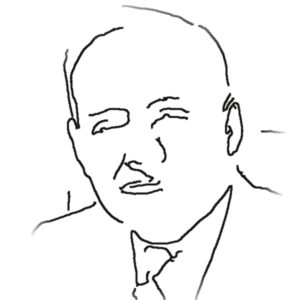
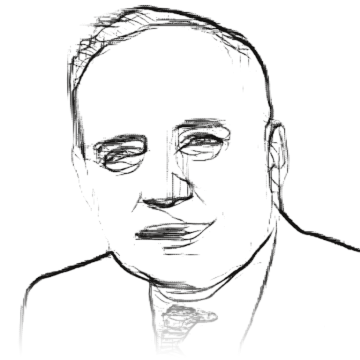
Redraw the investor sketches and merge the quotes with the reading section
The portraits are now drawn by a line-art model (informative drawings,
open-sketch style) from matted photos, instead of traced edges. The quote
wall, videos, books and podcast are one section. The Ben Felix channel
links from his video instead of repeating it as its own card.

Claude-Session: https://claude.ai/code/session_01HLwVeDYz1TyXAk1VNp3cfb

Changed region(s): [[0.03, 0.0, 1.0, 1.0], [0.63, 0.9, 0.69, 1.0], [0.87, 0.42, 0.96, 0.45]]

diff --git a/public/investing/index.html b/public/investing/index.html
@@ -253,6 +253,12 @@ table.data :is(th,td):first-child{text-align:left}
 .pre{opacity:0;transform:translateY(14px)}
 .reveal{transition:opacity .7s var(--ease),transform .7s var(--ease)}
 .vids{display:grid;grid-template-columns:repeat(2,minmax(0,1fr));gap:48px 32px;margin-top:72px}
+.vids.tight{margin-top:28px}
+.vid figcaption a{color:inherit;text-decoration-color:var(--rule);text-underline-offset:3px}
+.vid figcaption a:hover{text-decoration-color:var(--ink)}
+.reading .cd-card{grid-column:1/-1;display:grid;grid-template-columns:240px minmax(0,1fr);gap:0 40px;align-items:center}
+.cd-card .cd3d{margin-bottom:0}
+#voices>.note{margin-top:56px}
 .vid{margin:0;min-width:0}
 .vid-frame{position:relative;aspect-ratio:16/9;overflow:hidden;border:2px solid var(--ink);box-shadow:var(--shadow);background:var(--ink);transition:transform 120ms var(--ease),box-shadow 120ms var(--ease)}
 .vid-frame:has(.vid-play:active){transform:translate(3px,3px);box-shadow:none;transition-duration:40ms}
@@ -275,7 +281,7 @@ table.data :is(th,td):first-child{text-align:left}
 .mix .slider-val .mix-rest{margin-left:10px;color:var(--muted)}
 .mix-chart{margin-top:48px}
 /* quote wall: a sketch, the words, the name */
-.wall{display:grid;grid-template-columns:repeat(2,minmax(0,1fr));gap:72px 56px;margin-top:72px}
+.wall{display:grid;grid-template-columns:repeat(2,minmax(0,1fr));gap:72px 56px;margin-top:96px}
 .sage{margin:0;display:grid;grid-template-columns:120px minmax(0,1fr);grid-template-rows:auto 1fr;gap:0 22px;align-items:start}
 .face{grid-row:span 2;width:120px;height:120px;margin-top:-10px}
 .face img{display:block;width:100%;height:100%;object-fit:contain}
@@ -328,7 +334,7 @@ table.data :is(th,td):first-child{text-align:left}
 .book-card:hover .book{transition-duration:.45s}
 .book.open{transform:rotateY(4deg)}
 @media (hover:none){.book-card{cursor:pointer}}
-.cd3d,.tv3d{position:relative;height:236px;margin-bottom:28px}
+.cd3d{position:relative;height:236px;margin-bottom:28px}
 .sleeve{position:absolute;z-index:1;left:0;bottom:8px;width:176px;height:176px;padding:14px;display:flex;flex-direction:column;justify-content:space-between;background:var(--ink);color:var(--paper);box-shadow:var(--shadow)}
 .sleeve .mono{color:var(--paper);opacity:.65}
 .sleeve b{font-family:var(--f-display);font-weight:400;font-size:27px;line-height:1}
@@ -341,12 +347,7 @@ table.data :is(th,td):first-child{text-align:left}
 @keyframes spin{to{transform:rotate(360deg)}}
 .cd-card:hover .disc{transform:translateX(96px)}
 .cd-card:hover .disc .spin{animation-play-state:running}
-.tv3d{display:flex;align-items:flex-end;perspective:1000px;padding-bottom:20px}
-.tv{position:relative;width:232px;aspect-ratio:16/9;border:2px solid var(--ink);background:var(--card) var(--img) center/cover no-repeat;filter:grayscale(1) contrast(1.05);box-shadow:var(--shadow);
   transform:rotateY(22deg) rotateX(3deg);transition:transform .7s var(--ease-drawer),filter .3s var(--ease)}
-.tv .vid-badge{width:44px;height:44px;margin:-22px 0 0 -22px}
-.tv .vid-badge::after{left:18px;top:13px;border-width:9px 0 9px 14px}
-.tv-card:hover .tv{transform:none;filter:none}
 @media (prefers-reduced-motion:reduce){.disc .spin{animation:none}}
 .end{padding-block:160px 120px}
 .end .big{font-family:var(--f-display);font-size:clamp(44px,9vw,84px);line-height:1}
@@ -368,6 +369,8 @@ table.data :is(th,td):first-child{text-align:left}
   .stats>div:nth-child(3),.outcomes>div:nth-child(3){padding-left:0;border-left:0}
   .stats>div:nth-child(n+3),.outcomes>div:nth-child(n+3){border-top:1px solid var(--rule)}
   .then,.reading,.vids,.wall{grid-template-columns:1fr}
+  .reading .cd-card{grid-template-columns:1fr}
+  .cd-card .cd3d{margin-bottom:28px}
   .wall{gap:56px}
   .sage{grid-template-columns:88px minmax(0,1fr);gap:0 16px}
   .face{width:88px;height:88px}
@@ -592,39 +595,34 @@ table.data :is(th,td):first-child{text-align:left}
   </section>
 
   <section id="voices" aria-labelledby="h-voices">
-    <span class="mono" data-t="wallEye">Ask the people who know</span>
-    <h2 id="h-voices" data-t="wallH">The famous names agree</h2>
-    <p class="lede" data-t="wallLede">Some of the best-known investors and economists, on what most people should do with their money.</p>
+    <span class="mono" data-t="wallEye">In their own words</span>
+    <h2 id="h-voices" data-t="readH">From the people who said it first</h2>
+    <p class="lede" data-t="readLede">This page borrows almost all of its ideas. These are the people behind them, and some of the best-known investors who agree.</p>
+    <figure class="pull"><blockquote data-t="qStatue">“If a statue is ever erected to honor the person who has done the most for American investors, the hands-down choice should be Jack Bogle.”</blockquote><figcaption class="mono" data-t="qStatueBy">Warren Buffett, letter to shareholders, 2016</figcaption></figure>
     <div class="wall">
-      <figure class="sage"><div class="face" aria-hidden="true"><img src="/investing/people/buffett.png" alt="" width="300" height="300" loading="lazy" decoding="async"></div><blockquote data-t="w_buffett">“By periodically investing in an index fund, the know-nothing investor can actually out-perform most investment professionals.”</blockquote><figcaption><b>Warren Buffett</b><span class="mono" data-t="w_buffettBy">Letter to shareholders, 1993</span></figcaption></figure>
+      <figure class="sage"><div class="face" aria-hidden="true"><img src="/investing/people/buffett.png?v=3" alt="" width="360" height="360" loading="lazy" decoding="async"></div><blockquote data-t="w_buffett">“By periodically investing in an index fund, the know-nothing investor can actually out-perform most investment professionals.”</blockquote><figcaption><b>Warren Buffett</b><span class="mono" data-t="w_buffettBy">Letter to shareholders, 1993</span></figcaption></figure>
       <figure class="sage bare"><blockquote data-t="w_lynch">“Far more money has been lost by investors preparing for corrections, or trying to anticipate corrections, than has been lost in corrections themselves.”</blockquote><figcaption><b>Peter Lynch</b><span class="mono" data-t="w_lynchBy">Ran Fidelity’s Magellan fund, 1977–1990</span></figcaption></figure>
       <figure class="sage bare"><blockquote data-t="w_samuelson">“Investing should be more like watching paint dry or watching grass grow. If you want excitement, take $800 and go to Las Vegas.”</blockquote><figcaption><b>Paul Samuelson</b><span class="mono" data-t="w_samuelsonBy">Nobel Prize–winning economist</span></figcaption></figure>
-      <figure class="sage"><div class="face" aria-hidden="true"><img src="/investing/people/graham.png" alt="" width="300" height="300" loading="lazy" decoding="async"></div><blockquote data-t="w_graham">“In the short run, the market is a voting machine but in the long run, it is a weighing machine.”</blockquote><figcaption><b>Benjamin Graham</b><span class="mono" data-t="w_grahamBy">Buffett’s teacher, as Buffett quotes him</span></figcaption></figure>
-      <figure class="sage"><div class="face" aria-hidden="true"><img src="/investing/people/sharpe.png" alt="" width="300" height="300" loading="lazy" decoding="async"></div><blockquote data-t="w_sharpe">“Properly measured, the average actively managed dollar must underperform the average passively managed dollar, net of costs.”</blockquote><figcaption><b>William F. Sharpe</b><span class="mono" data-t="w_sharpeBy">The Arithmetic of Active Management, 1991</span></figcaption></figure>
-      <figure class="sage"><div class="face" aria-hidden="true"><img src="/investing/people/munger.png" alt="" width="300" height="300" loading="lazy" decoding="async"></div><blockquote data-t="w_munger">“The big money is not in the buying and the selling, but in the waiting.”</blockquote><figcaption><b>Charlie Munger</b><span class="mono" data-t="w_mungerBy">Buffett’s partner at Berkshire Hathaway</span></figcaption></figure>
+      <figure class="sage"><div class="face" aria-hidden="true"><img src="/investing/people/graham.png?v=3" alt="" width="360" height="360" loading="lazy" decoding="async"></div><blockquote data-t="w_graham">“In the short run, the market is a voting machine but in the long run, it is a weighing machine.”</blockquote><figcaption><b>Benjamin Graham</b><span class="mono" data-t="w_grahamBy">Buffett’s teacher, as Buffett quotes him</span></figcaption></figure>
+      <figure class="sage"><div class="face" aria-hidden="true"><img src="/investing/people/sharpe.png?v=3" alt="" width="360" height="360" loading="lazy" decoding="async"></div><blockquote data-t="w_sharpe">“Properly measured, the average actively managed dollar must underperform the average passively managed dollar, net of costs.”</blockquote><figcaption><b>William F. Sharpe</b><span class="mono" data-t="w_sharpeBy">The Arithmetic of Active Management, 1991</span></figcaption></figure>
+      <figure class="sage"><div class="face" aria-hidden="true"><img src="/investing/people/munger.png?v=3" alt="" width="360" height="360" loading="lazy" decoding="async"></div><blockquote data-t="w_munger">“The big money is not in the buying and the selling, but in the waiting.”</blockquote><figcaption><b>Charlie Munger</b><span class="mono" data-t="w_mungerBy">Buffett’s partner at Berkshire Hathaway</span></figcaption></figure>
       <figure class="sage bare"><blockquote data-t="w_fama">“Your money is like soap. The more you handle it, the less you’ll have.”</blockquote><figcaption><b>Eugene Fama</b><span class="mono" data-t="w_famaBy">Nobel Prize–winning economist</span></figcaption></figure>
       <figure class="sage bare"><blockquote data-t="w_housel">“Doing well with money has a little to do with how smart you are and a lot to do with how you behave.”</blockquote><figcaption><b>Morgan Housel</b><span class="mono" data-t="w_houselBy">The Psychology of Money, 2020</span></figcaption></figure>
     </div>
-    <p class="note" data-t="wallCredit">Line drawings traced from photos on Wikimedia Commons. Warren Buffett: <a href="https://commons.wikimedia.org/wiki/File:Warren_Buffett_KU_Visit.jpg">Mark Hirschey</a>, CC BY-SA 2.0; Benjamin Graham: <a href="https://commons.wikimedia.org/wiki/File:Benjamin_Graham_(1894-1976)_portrait_on_23_March_1950.jpg">unknown photographer, 1950</a>, public domain; William F. Sharpe: <a href="https://commons.wikimedia.org/wiki/File:William_sharpe_2007.jpg">Larry D. Moore</a>, CC BY 4.0; Charlie Munger: <a href="https://commons.wikimedia.org/wiki/File:Charlie_Munger.jpg">Nick J Webb</a>, CC BY 2.0.</p>
-  </section>
 
-  <section id="reading" aria-labelledby="h-reading">
-    <span class="mono" data-t="readEye">Watch, read, listen</span>
-    <h2 id="h-reading" data-t="readH">From the people who said it first</h2>
-    <p class="lede" data-t="readLede">This page borrows almost all of its ideas. These are the people behind them, in their own words.</p>
-    <figure class="pull"><blockquote data-t="qStatue">“If a statue is ever erected to honor the person who has done the most for American investors, the hands-down choice should be Jack Bogle.”</blockquote><figcaption class="mono" data-t="qStatueBy">Warren Buffett, letter to shareholders, 2016</figcaption></figure>
-    <div class="vids">
+    <span class="mono eye-gap" data-t="readEye">Watch, read, listen</span>
+    <div class="vids tight">
       <figure class="vid"><div class="vid-frame"><button class="vid-play" type="button" data-yt="n_paK_p3_gs" data-title="Vanguard's John Bogle on Starting the First Index Fund" style="--img:url(/investing/video/bogle-first-index-fund.jpg)" aria-label="Play: Vanguard's John Bogle on Starting the First Index Fund" data-ta="v1play@aria-label"><span class="vid-badge" aria-hidden="true"></span><span class="vid-sound mono" aria-hidden="true" data-t="vidSound">Click for sound</span></button></div><figcaption><span class="mono">Investopedia</span><h3>John C. Bogle</h3><p data-t="v1">Why he started the first index fund for ordinary investors.</p></figcaption></figure>
       <figure class="vid"><div class="vid-frame"><button class="vid-play" type="button" data-yt="-GrKhUdu-YE" data-title="Buffett: I would buy the S&P 500 in a second" style="--img:url(/investing/video/buffett-sp500.jpg)" aria-label="Play: Buffett: I would buy the S&P 500 in a second" data-ta="v2play@aria-label"><span class="vid-badge" aria-hidden="true"></span><span class="vid-sound mono" aria-hidden="true" data-t="vidSound">Click for sound</span></button></div><figcaption><span class="mono">CNBC</span><h3>Warren Buffett</h3><p data-t="v2">Why he would buy the index rather than pick stocks. He means America’s 500 biggest companies; the idea works the same for the whole world.</p></figcaption></figure>
-      <figure class="vid"><div class="vid-frame"><button class="vid-play" type="button" data-yt="yhldVcWhhc0" data-title="Why It's So Hard to Beat the Market P1" style="--img:url(/investing/video/felix-beat-the-market.jpg)" aria-label="Play: Why It's So Hard to Beat the Market P1" data-ta="v3play@aria-label"><span class="vid-badge" aria-hidden="true"></span><span class="vid-sound mono" aria-hidden="true" data-t="vidSound">Click for sound</span></button></div><figcaption><span class="mono">Ben Felix</span><h3>Ben Felix</h3><p data-t="v3">Why so few professionals beat the market, with the research on screen.</p></figcaption></figure>
+      <figure class="vid"><div class="vid-frame"><button class="vid-play" type="button" data-yt="yhldVcWhhc0" data-title="Why It's So Hard to Beat the Market P1" style="--img:url(/investing/video/felix-beat-the-market.jpg)" aria-label="Play: Why It's So Hard to Beat the Market P1" data-ta="v3play@aria-label"><span class="vid-badge" aria-hidden="true"></span><span class="vid-sound mono" aria-hidden="true" data-t="vidSound">Click for sound</span></button></div><figcaption><span class="mono">Ben Felix</span><h3>Ben Felix</h3><p data-t="v3">Why so few professionals beat the market, with the research on screen. His channel, <a href="https://www.youtube.com/@BenFelixCSI" rel="noopener">Common Sense Investing</a>, has a short video like this for most investing questions.</p></figcaption></figure>
       <figure class="vid"><div class="vid-frame"><button class="vid-play" type="button" data-yt="L-QQ_XtZNNI" data-title="Legendary John Bogle Shares the Investment Lessons of a Lifetime" style="--img:url(/investing/video/bogle-lessons.jpg)" aria-label="Play: Legendary John Bogle Shares the Investment Lessons of a Lifetime" data-ta="v4play@aria-label"><span class="vid-badge" aria-hidden="true"></span><span class="vid-sound mono" aria-hidden="true" data-t="vidSound">Click for sound</span></button></div><figcaption><span class="mono">WEALTHTRACK</span><h3>John C. Bogle</h3><p data-t="v4">A long interview: what a lifetime in investing taught him.</p></figcaption></figure>
     </div>
     <div class="reading">
       <div class="book-card"><div class="book3d" aria-hidden="true"><div class="book little"><div class="b-front"><span class="b-author">John C. Bogle</span><span class="b-title">The Little Book of Common Sense Investing</span><svg class="b-mark" viewBox="0 0 32 20"><g fill="currentColor"><rect x="1" y="12" width="2.6" height="8" rx="1.3"/><rect x="5.4" y="7.5" width="2.6" height="12.5" rx="1.3"/><rect x="9.8" y="4" width="2.6" height="16" rx="1.3"/><rect x="14.2" y="2" width="2.6" height="18" rx="1.3"/><rect x="18.6" y="4" width="2.6" height="16" rx="1.3"/><rect x="23" y="7.5" width="2.6" height="12.5" rx="1.3"/><rect x="27.4" y="12" width="2.6" height="8" rx="1.3"/></g></svg></div><div class="b-spine"><span>The Little Book</span></div><div class="b-pages"></div><div class="b-back"></div></div></div><div data-t="read1"><span class="mono">Book · 2007, updated 2017</span><h3>The Little Book of Common Sense Investing</h3><p class="by">John C. Bogle</p><p>The case for index funds from the man who built the first one for ordinary investors. Short, plain and stubborn: own the market, keep costs low, stay the course.</p></div></div>
       <div class="book-card"><div class="book3d" aria-hidden="true"><div class="book pillars"><div class="b-front"><span class="b-author">William J. Bernstein</span><span class="b-title">The Four Pillars of Investing</span><span class="b-pillars"><i></i><i></i><i></i><i></i></span></div><div class="b-spine"><span>The Four Pillars</span></div><div class="b-pages"></div><div class="b-back"></div></div></div><div data-t="read2"><span class="mono">Book · 2002, 2nd edition 2023</span><h3>The Four Pillars of Investing</h3><p class="by">William J. Bernstein</p><p>Theory, history, psychology and business: the four things you need to understand to invest well. The history chapters on bubbles and crashes alone are worth it.</p></div></div>
-      <a class="obj-card tv-card" href="https://www.youtube.com/@BenFelixCSI" rel="noopener"><div class="tv3d" aria-hidden="true"><div class="tv" style="--img:url(/investing/video/felix-beat-the-market.jpg)"><span class="vid-badge"></span></div></div><div data-t="read3"><span class="mono">YouTube ↗</span><h3>Ben Felix, Common Sense Investing</h3><p class="by">Ben Felix</p><p>Short, well-sourced videos that take on one investing question at a time, with the research on screen. He goes a step further than Bogle and argues for leaning toward smaller and cheaper companies; this page sticks to the plain version.</p></div></a>
-      <a class="obj-card cd-card" href="https://rationalreminder.ca/podcast" rel="noopener"><div class="cd3d" aria-hidden="true"><div class="disc"><div class="spin"><span>Rational Reminder</span></div></div><div class="sleeve"><span class="mono">Podcast</span><b>The Rational<br>Reminder</b></div></div><div data-t="read4"><span class="mono">Podcast ↗</span><h3>The Rational Reminder</h3><p class="by">Ben Felix, Cameron Passmore and guests</p><p>Long conversations about evidence-based investing and decisions about money, often with the academics whose papers the rest of the industry quotes.</p></div></a>
+      <a class="obj-card cd-card" href="https://rationalreminder.ca/podcast" rel="noopener"><div class="cd3d" aria-hidden="true"><div class="disc"><div class="spin"><span>Rational Reminder</span></div></div><div class="sleeve"><span class="mono">Podcast</span><b>The Rational<br>Reminder</b></div></div><div data-t="read4"><span class="mono">Podcast ↗</span><h3>The Rational Reminder</h3><p class="by">Ben Felix, Cameron Passmore and guests</p><p>Long conversations about evidence-based investing and decisions about money, often with the academics whose papers the rest of the industry quotes. Felix goes a step further than Bogle and leans toward smaller and cheaper companies; this page sticks to the plain version.</p></div></a>
     </div>
+    <p class="note" data-t="wallCredit">Line drawings traced from photos on Wikimedia Commons. Warren Buffett: <a href="https://commons.wikimedia.org/wiki/File:Warren_Buffett_KU_Visit.jpg">Mark Hirschey</a>, CC BY-SA 2.0; Benjamin Graham: <a href="https://commons.wikimedia.org/wiki/File:Benjamin_Graham_(1894-1976)_portrait_on_23_March_1950.jpg">unknown photographer, 1950</a>, public domain; William F. Sharpe: <a href="https://commons.wikimedia.org/wiki/File:William_sharpe_2007.jpg">Larry D. Moore</a>, CC BY 4.0; Charlie Munger: <a href="https://commons.wikimedia.org/wiki/File:Charlie_Munger.jpg">Nick J Webb</a>, CC BY 2.0.</p>
   </section>
 
   <footer class="end">
@@ -634,7 +632,7 @@ table.data :is(th,td):first-child{text-align:left}
 </main>
 
 <script src="/investing/returns.js?v=2"></script>
-<script src="/investing/i18n.js?v=12"></script>
+<script src="/investing/i18n.js?v=13"></script>
 <script src="/investing/app.js?v=12"></script>
 </body>
 </html>

diff --git a/public/investing/i18n.js b/public/investing/i18n.js
@@ -235,9 +235,7 @@ window.I18N = (function () {
     rule5: "<h3>Houd koers.</h3><p>Bogles motto. Het rendement in de grafiek hierboven ging naar wie na de slechte jaren nog belegd was, niet naar wie was uitgestapt.</p>",
 
     /* wall:start */
-    wallEye: "Vraag het de mensen die het weten",
-    wallH: "De grote namen zijn het eens",
-    wallLede: "Enkele van de bekendste beleggers en economen, over wat de meeste mensen met hun geld zouden moeten doen.",
+    wallEye: "In hun eigen woorden",
     w_buffett: "“Door regelmatig in een indexfonds te beleggen, kan de belegger die er niets van weet het zelfs beter doen dan de meeste beleggingsprofessionals.”", w_buffettBy: "Brief aan aandeelhouders, 1993",
     w_lynch: "“Beleggers hebben veel meer geld verloren door zich op correcties voor te bereiden, of ze te proberen te voorspellen, dan door de correcties zelf.”", w_lynchBy: "Beheerde het Magellan-fonds van Fidelity, 1977–1990",
     w_samuelson: "“Beleggen zou meer moeten lijken op verf zien drogen of gras zien groeien. Wil je spanning, neem dan 800 dollar mee naar Las Vegas.”", w_samuelsonBy: "Nobelprijswinnaar economie",
@@ -250,11 +248,10 @@ window.I18N = (function () {
     /* wall:end */
     readEye: "Kijken, lezen, luisteren",
     readH: "Van wie we het leerden",
-    readLede: "Bijna alles op deze pagina is geleend. Dit zijn de mensen erachter, in hun eigen woorden.",
+    readLede: "Bijna alles op deze pagina is geleend. Dit zijn de mensen erachter, en enkele van de bekendste beleggers die het met ze eens zijn.",
     read1: "<span class=\"mono\">Boek · 2007, herzien 2017</span><h3>The Little Book of Common Sense Investing</h3><p class=\"by\">John C. Bogle</p><p>Het pleidooi voor indexfondsen van de man die het eerste voor gewone beleggers bouwde. Kort, helder en koppig: bezit de markt, houd de kosten laag, houd koers.</p>",
     read2: "<span class=\"mono\">Boek · 2002, 2e editie 2023</span><h3>The Four Pillars of Investing</h3><p class=\"by\">William J. Bernstein</p><p>Theorie, geschiedenis, psychologie en de beleggingsindustrie: de vier dingen die je moet begrijpen om goed te beleggen. Alleen de hoofdstukken over bubbels en crashes zijn het al waard.</p>",
-    read3: "<span class=\"mono\">YouTube ↗</span><h3>Ben Felix, Common Sense Investing</h3><p class=\"by\">Ben Felix</p><p>Korte, goed onderbouwde video’s die steeds één beleggingsvraag behandelen, met het onderzoek in beeld. Hij gaat een stap verder dan Bogle en weegt kleinere en goedkopere bedrijven wat zwaarder; deze pagina houdt het bij de eenvoudige versie.</p>",
-    read4: "<span class=\"mono\">Podcast ↗</span><h3>The Rational Reminder</h3><p class=\"by\">Ben Felix, Cameron Passmore en gasten</p><p>Lange gesprekken over beleggen op basis van bewijs en over keuzes rond geld, vaak met de wetenschappers wier onderzoek de rest van de sector aanhaalt.</p>",
+    read4: "<span class=\"mono\">Podcast ↗</span><h3>The Rational Reminder</h3><p class=\"by\">Ben Felix, Cameron Passmore en gasten</p><p>Lange gesprekken over beleggen op basis van bewijs en over keuzes rond geld, vaak met de wetenschappers wier onderzoek de rest van de sector aanhaalt. Felix gaat een stap verder dan Bogle en weegt kleinere en goedkopere bedrijven wat zwaarder; deze pagina houdt het bij de eenvoudige versie.</p>",
 
     qTime: "“Tijd is je vriend; impuls is je vijand.”", qTimeBy: "John C. Bogle",
     qSam: "“Ik zet deze uitvinding van Bogle op één lijn met de uitvinding van het wiel, het alfabet, de boekdrukkunst van Gutenberg, en wijn en kaas.”",
@@ -271,7 +268,7 @@ window.I18N = (function () {
     vidSound: "Klik voor geluid",
     v1: "Waarom hij het eerste indexfonds voor gewone beleggers begon.",
     v2: "Waarom hij de index zou kopen in plaats van zelf aandelen te kiezen. Hij bedoelt de 500 grootste Amerikaanse bedrijven; voor de hele wereld werkt het idee hetzelfde.",
-    v3: "Waarom zo weinig professionals de markt verslaan, met het onderzoek in beeld.",
+    v3: "Waarom zo weinig professionals de markt verslaan, met het onderzoek in beeld. Zijn kanaal, <a href=\"https://www.youtube.com/@BenFelixCSI\" rel=\"noopener\">Common Sense Investing</a>, heeft voor bijna elke beleggingsvraag zo’n korte video.",
     v4: "Een lang interview: wat een leven lang beleggen hem leerde.",
     "v1play@aria-label": "Afspelen: Vanguard's John Bogle on Starting the First Index Fund",
     "v2play@aria-label": "Afspelen: Buffett: I would buy the S&P 500 in a second",
